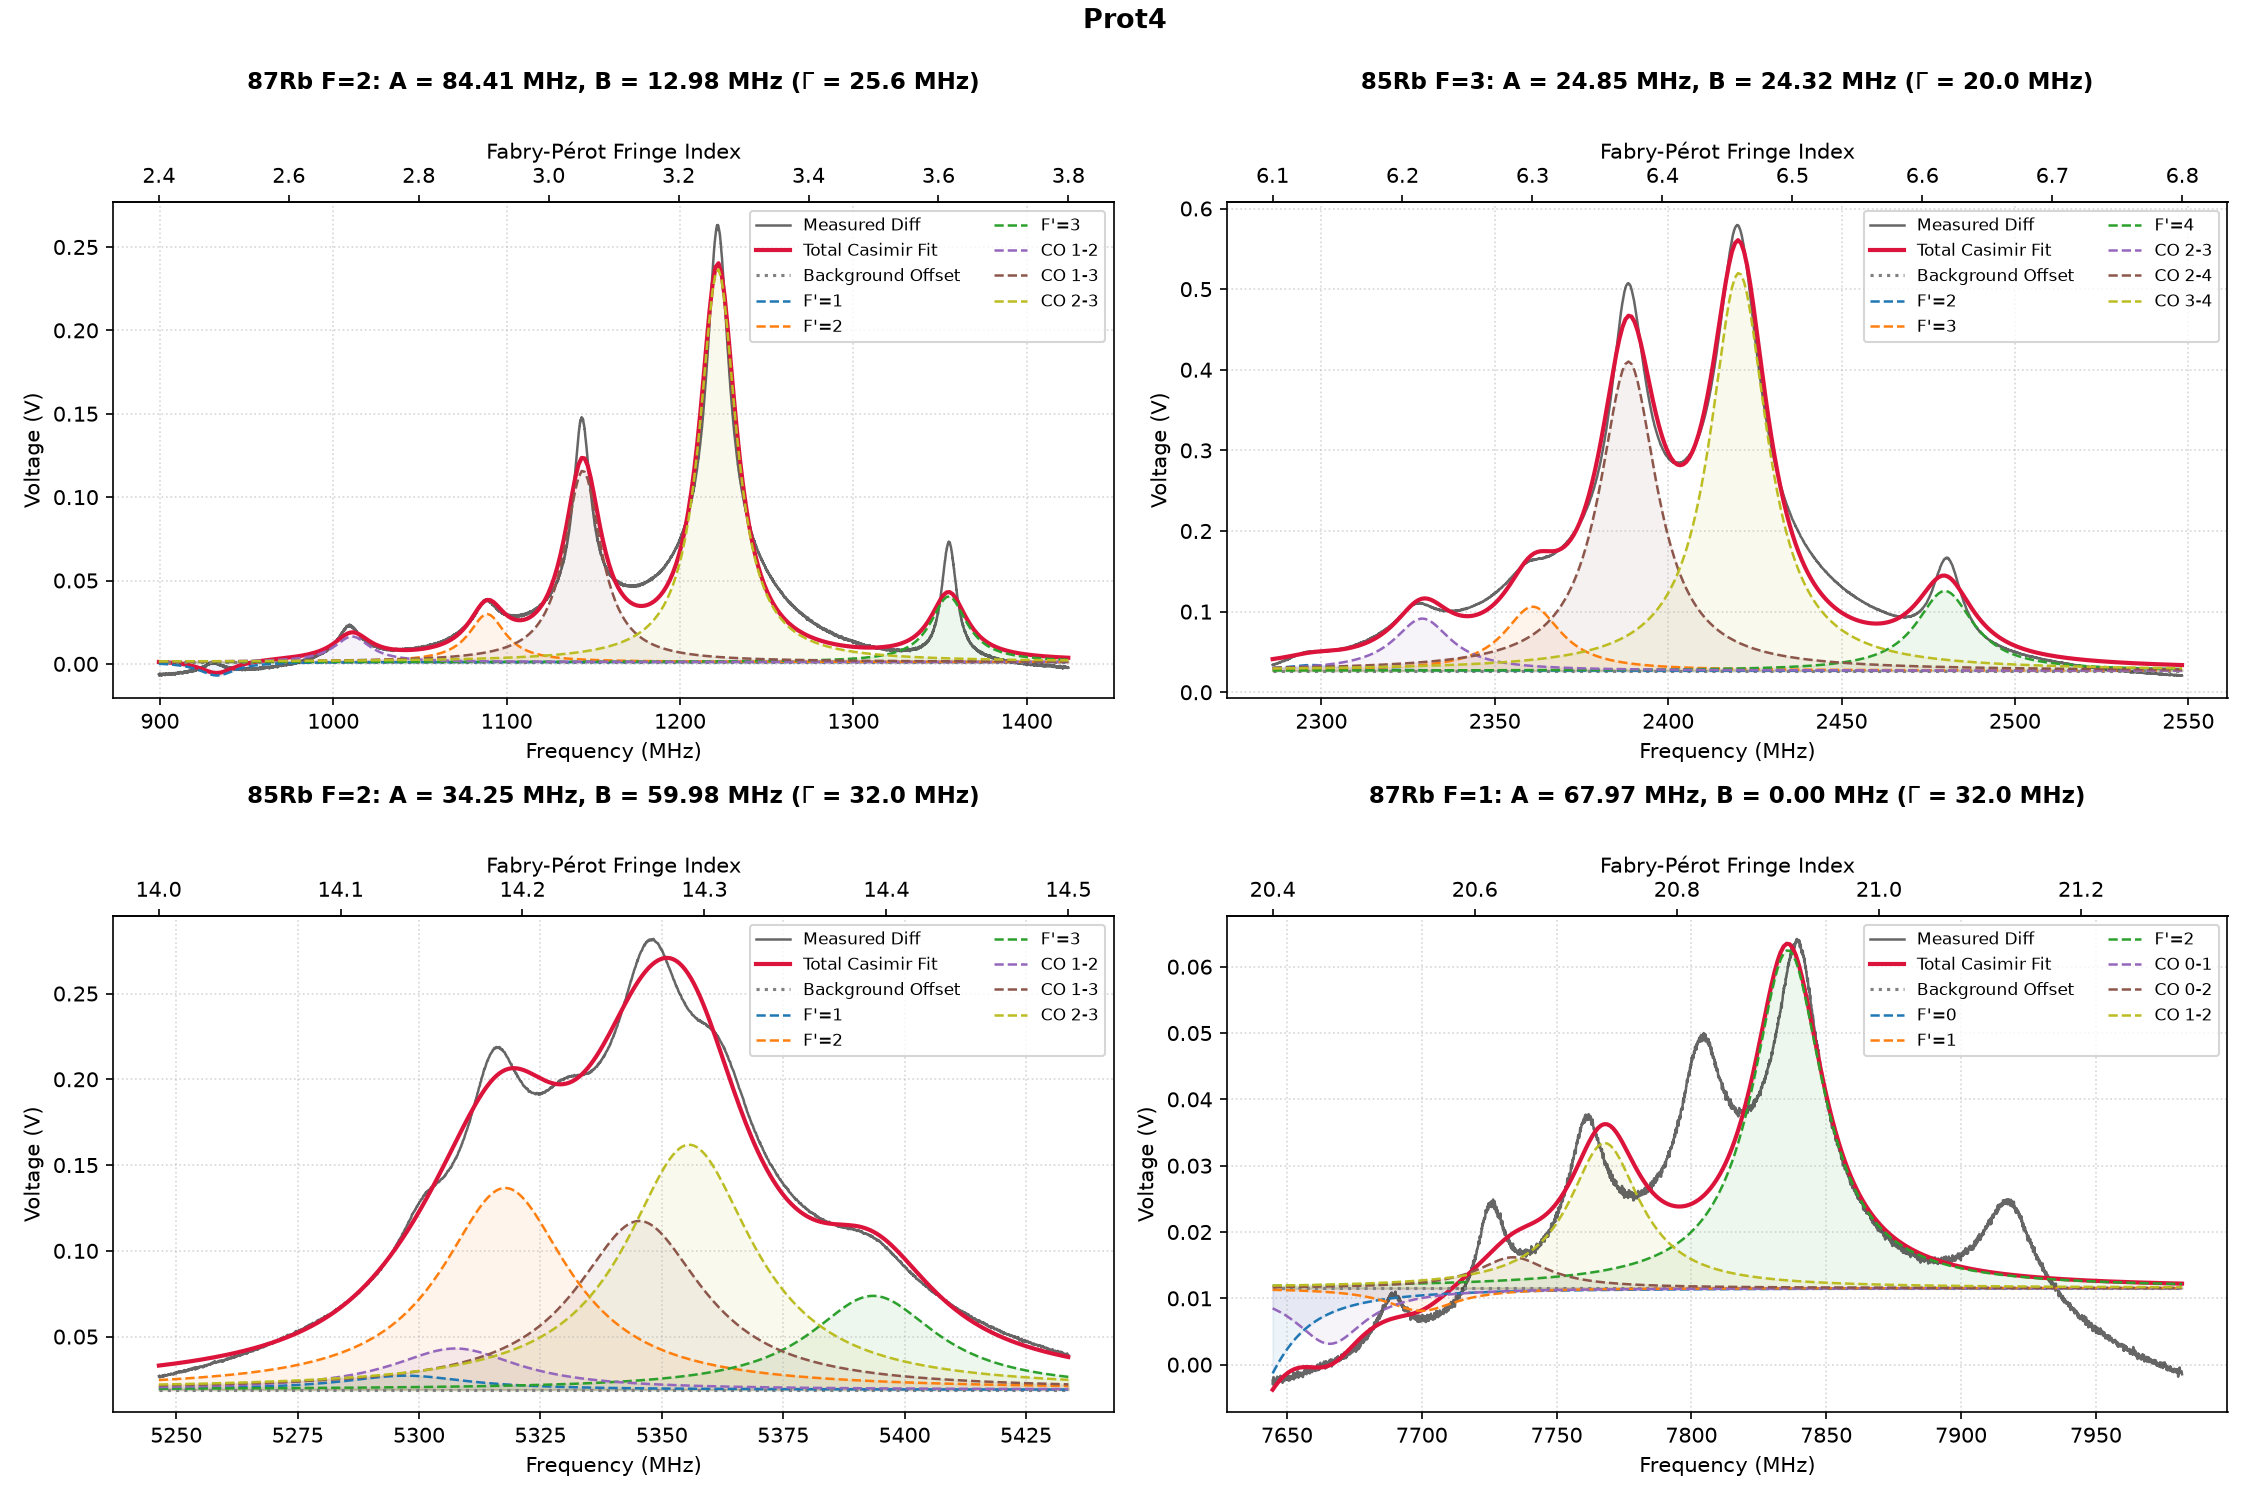
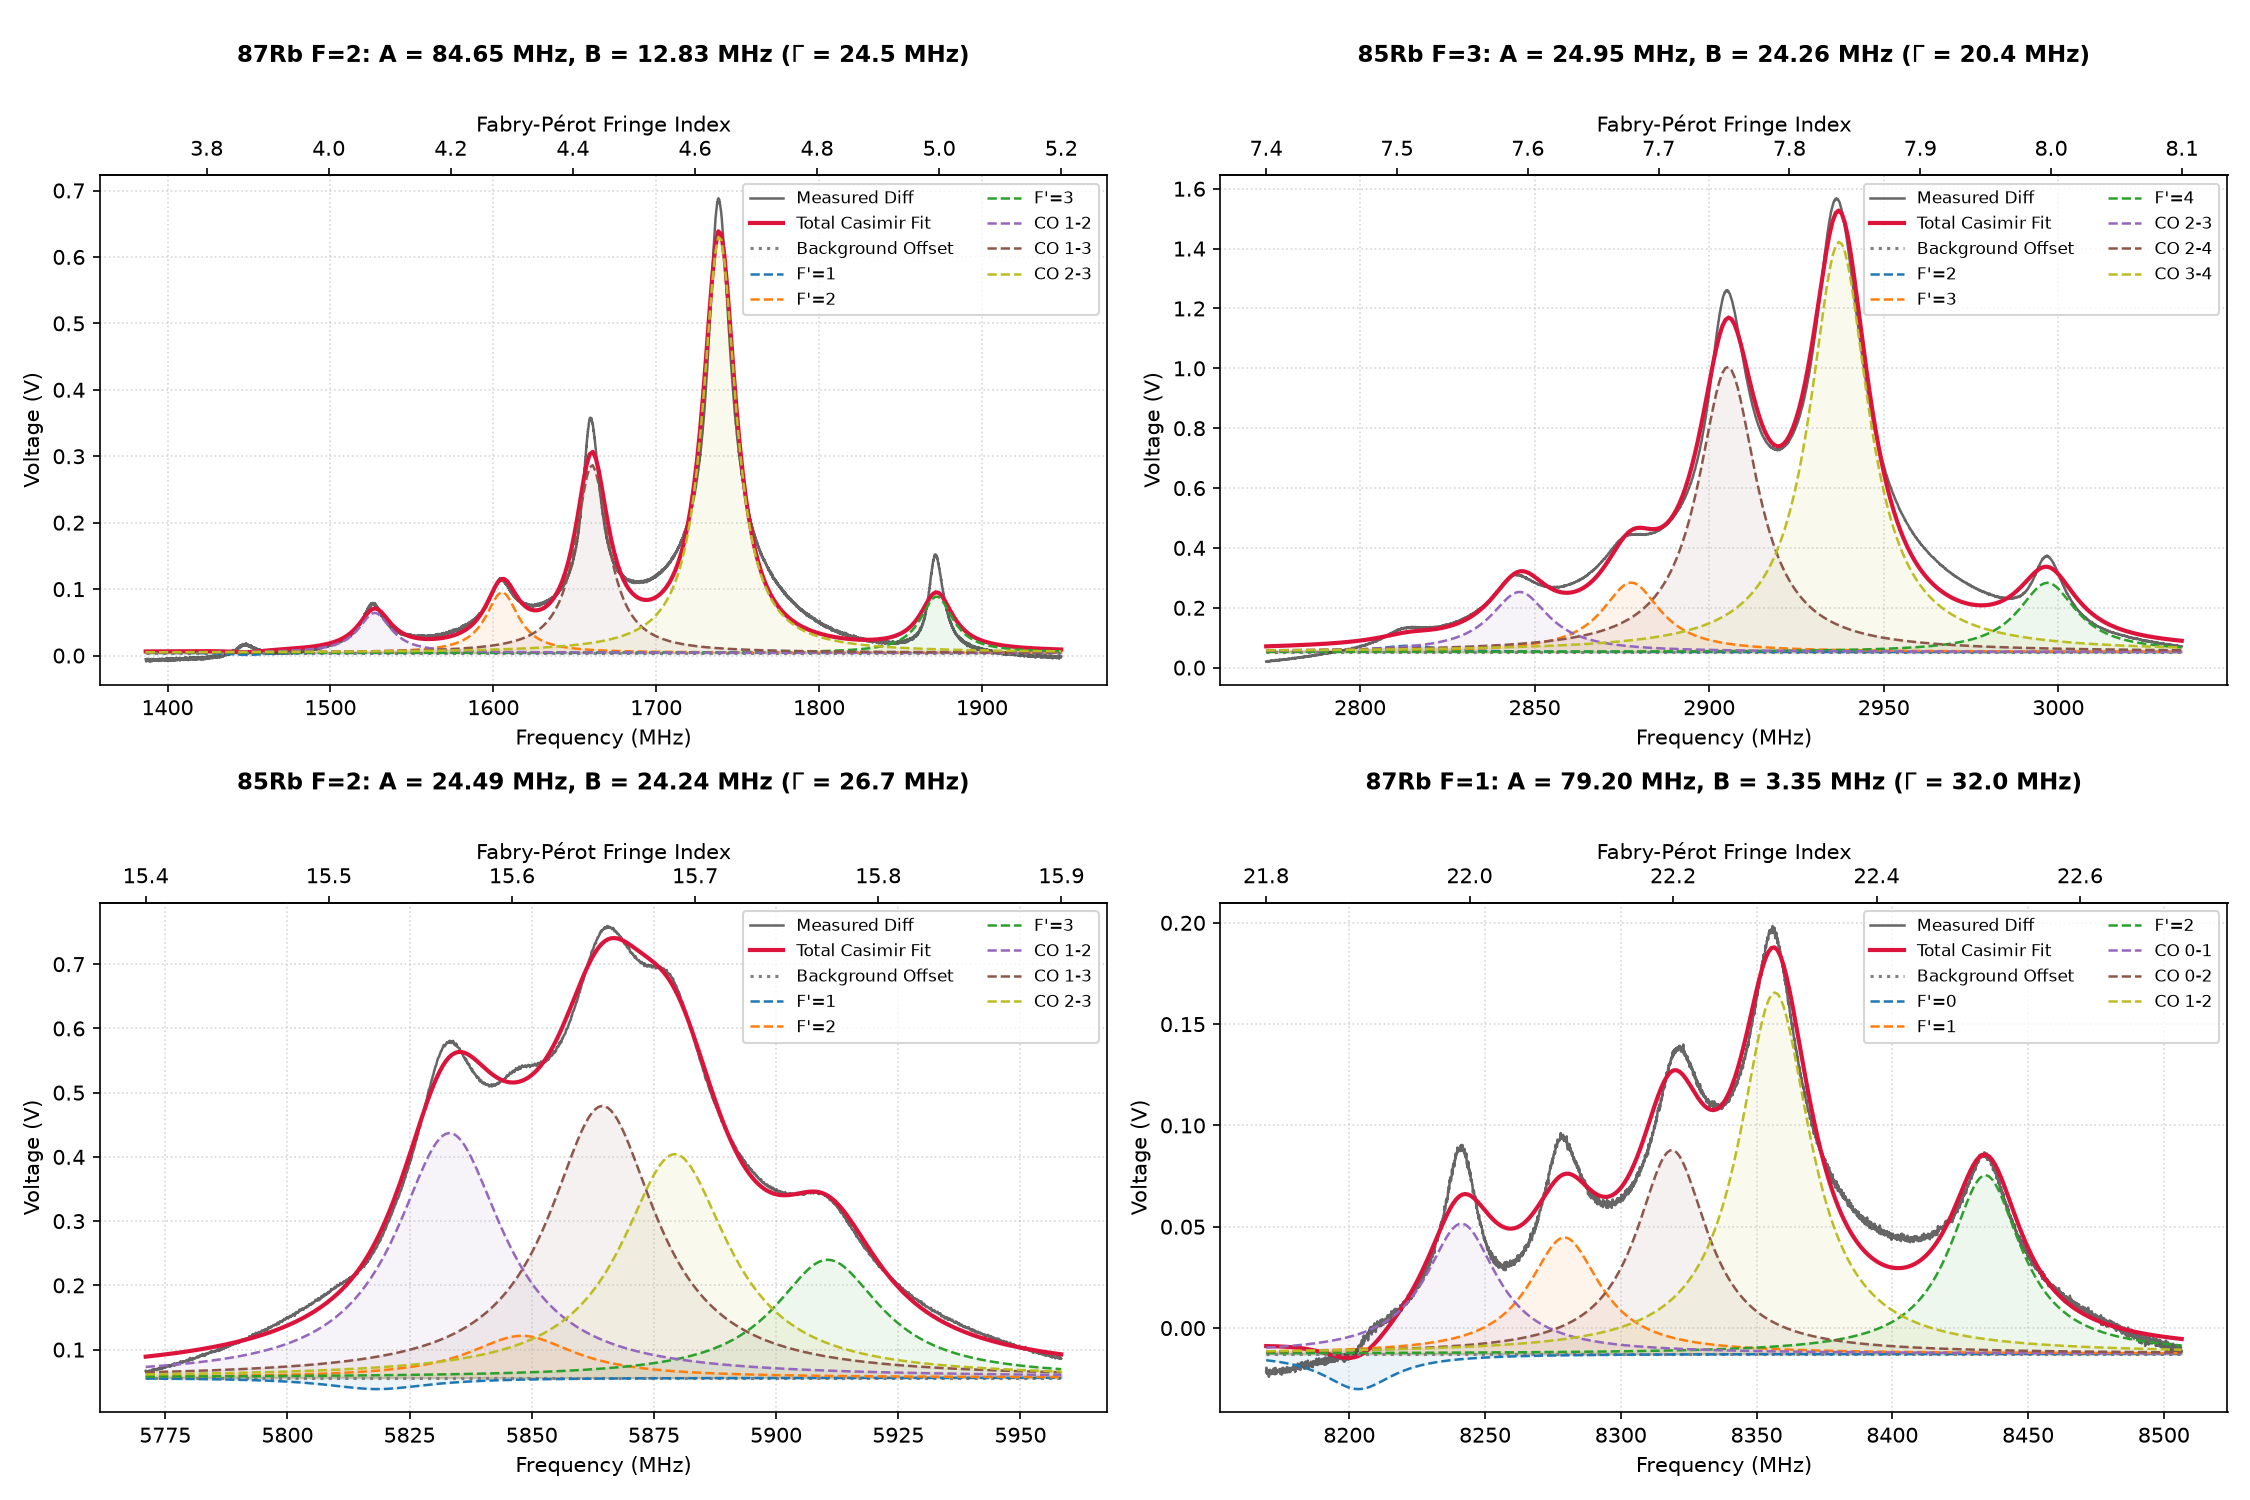
Added fitted horizontal shift

diff --git a/main.py b/main.py
@@ -1,7 +1,8 @@
 import numpy as np
 from matplotlib import pyplot as plt
 from scipy.signal import find_peaks
-from scipy.optimize import least_squares
+from scipy.optimize import least_squares, minimize_scalar
+from scipy.interpolate import interp1d
 import pandas as pd
 
 from util import casimir_energy, MANIFOLDS_CONFIG
@@ -48,7 +49,7 @@ def cut_edges_off(fabry, pumped, unpumped, peaks, peak_index, index):
             pumped[left_edge:right_edge + 1], peaks, peak_index, index)
 
 
-def prep_data(fp_name, pumped_name, unpumped_name, cut_edges=False):
+def prep_data(fp_name, pumped_name, unpumped_name, cut_edges=False, align_shift=True):
     _, fabry = load(fp_name)
     _, pumped = load(pumped_name)
     _, unpumped = load(unpumped_name)
@@ -58,6 +59,21 @@ def prep_data(fp_name, pumped_name, unpumped_name, cut_edges=False):
     if cut_edges:
         fabry, pumped, unpumped, peaks, peak_index, index = cut_edges_off(fabry, pumped, unpumped,
                                                                           peaks, peak_index, index)
+    if align_shift:
+        u_interp = interp1d(index, unpumped, kind='cubic', bounds_error=False, fill_value='extrapolate')
+        pad = 200
+        idx_eval = index[pad:-pad]
+        p_eval = pumped[pad:-pad]
+        bg_mask = np.abs(p_eval - unpumped[pad:-pad]) < 0.04
+        if np.sum(bg_mask) < 1000:
+            bg_mask = np.ones_like(p_eval, dtype=bool)
+        res = minimize_scalar(
+            lambda s: np.mean((p_eval[bg_mask] - u_interp(idx_eval[bg_mask] + s)) ** 2),
+            bounds=(-150, 150),
+            method='bounded'
+        )
+        unpumped = u_interp(index + res.x)
+
     freq_fit = np.poly1d(np.polyfit(peaks, peak_index, 5))
     freq = freq_fit(index)
     if show_freq_fit:
